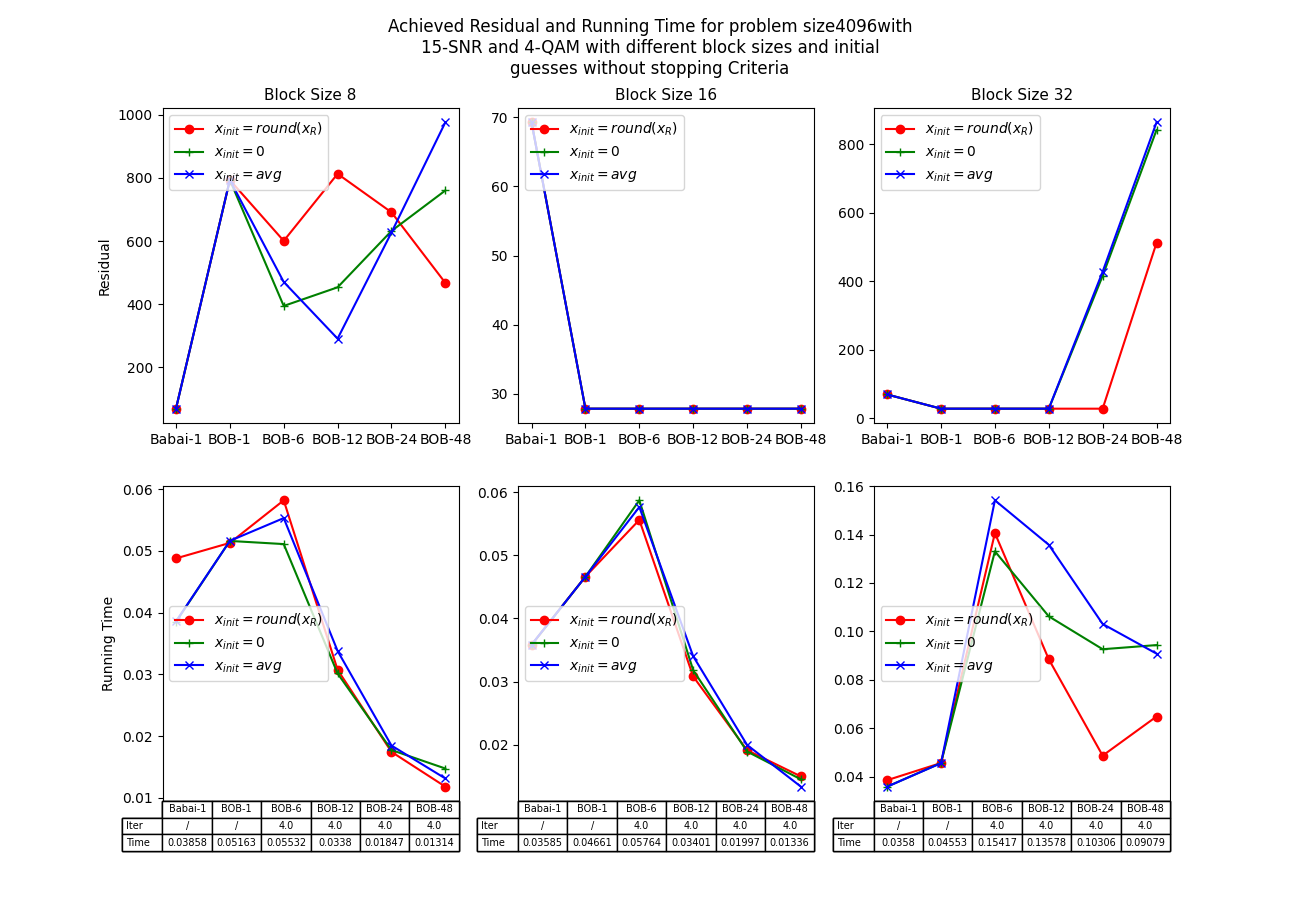
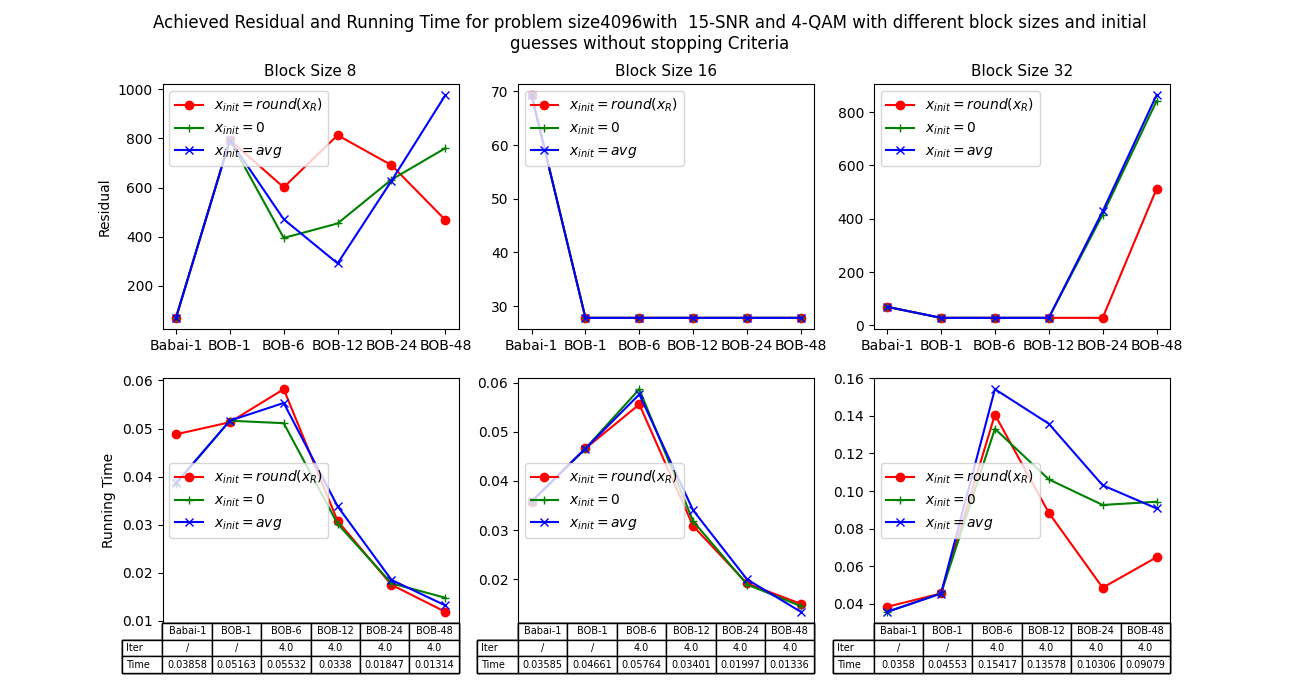
Upload Results

diff --git a/past_results_2020_11_21/plot_helper.py b/past_results_2020_11_21/plot_helper.py
@@ -149,7 +149,7 @@ def plot_res_conv(n):
                 else:
                     k = k + 2
 
-                plt2.rcParams["figure.figsize"] = (13, 9)
+                plt2.rcParams["figure.figsize"] = (13, 7)
                 fig, axes2 = plt2.subplots(2, 3)
 
                 color = ['r', 'g', 'b', 'y']
@@ -228,7 +228,7 @@ def plot_res_conv(n):
                         + str(pow(4, f)) + '-QAM with different block sizes and initial guesses without stopping ' \
                                            'Criteria'
 
-                fig.suptitle("\n".join(wrap(title, 60)), fontsize=12)
+                fig.suptitle("\n".join(wrap(title, 120)), fontsize=12)
                 pd.set_option('display.max_columns', None)
                 print(omp_itr)
 
@@ -236,7 +236,7 @@ def plot_res_conv(n):
                 plt2.close()
                 k = k + 7
 
-                plt3.rcParams["figure.figsize"] = (13, 9)
+                plt3.rcParams["figure.figsize"] = (13, 7)
                 fig, axes = plt3.subplots(2, 3)
 
                 color = ['r', 'g', 'b', 'y']
@@ -315,7 +315,7 @@ def plot_res_conv(n):
                         + str(pow(4, f)) + '-QAM with different block sizes and initial guesses with stopping ' \
                                            'Criteria'
 
-                fig.suptitle("\n".join(wrap(title, 60)), fontsize=12)
+                fig.suptitle("\n".join(wrap(title, 120)), fontsize=12)
 
                 plt3.savefig('./' + str(n) + '_res_' + SNR + "_tim_" + str(pow(4, f)) + '_stopped')
                 plt3.close()

diff --git a/babai_asyn_c++/src/example/ils_block_search.cpp b/babai_asyn_c++/src/example/ils_block_search.cpp
@@ -156,8 +156,8 @@ void plot_run(index k, index SNR, index max_proc, scalar stop) {
                             for (index t = 0; t < n; t++) {
                                 z_B.x[t] = std::pow(2, k) / 2;
                             }
-                        index iter = 5;
-                        if (k == 3) iter = 8;
+                        index iter = 10;
+//                        if (k == 3) iter = 8;
                         auto reT = bsa.sils_block_search_omp(n_proc, iter, stop, &bsa.R_A, &bsa.y_A, &z_B, &z_B_p,
                                                              &d_s);
                         omp_res = sils::find_residual<scalar, index, n>(&bsa.R_A, &bsa.y_A, reT.x);

diff --git a/babai_asyn_cluster/src/example/ils_block_search.cpp b/babai_asyn_cluster/src/example/ils_block_search.cpp
@@ -156,8 +156,8 @@ void plot_run(index k, index SNR, index max_proc, scalar stop) {
                             for (index t = 0; t < n; t++) {
                                 z_B.x[t] = std::pow(2, k) / 2;
                             }
-                        index iter = 5;
-                        if (k == 3) iter = 8;
+                        index iter = 10;
+//                        if (k == 3) iter = 8;
                         auto reT = bsa.sils_block_search_omp(n_proc, iter, stop, &bsa.R_A, &bsa.y_A, &z_B, &z_B_p,
                                                              &d_s);
                         omp_res = sils::find_residual<scalar, index, n>(&bsa.R_A, &bsa.y_A, reT.x);

diff --git a/babai_asyn_c++/test.cpp b/babai_asyn_c++/test.cpp
@@ -20,6 +20,7 @@ int main(int argc, char *argv[]) {
         k = stoi(argv[1]);
         index = stoi(argv[2]);
     }
+    max_proc = max_proc != 64? max_proc : 100;
     //plot_run();
 
     for (int SNR = 15; SNR <= 35; SNR += 20) {

diff --git a/babai_asyn_cluster/test.cpp b/babai_asyn_cluster/test.cpp
@@ -20,6 +20,7 @@ int main(int argc, char *argv[]) {
         k = stoi(argv[1]);
         index = stoi(argv[2]);
     }
+    max_proc = max_proc != 64? max_proc : 100;
     //plot_run();
 
     for (int SNR = 15; SNR <= 35; SNR += 20) {
